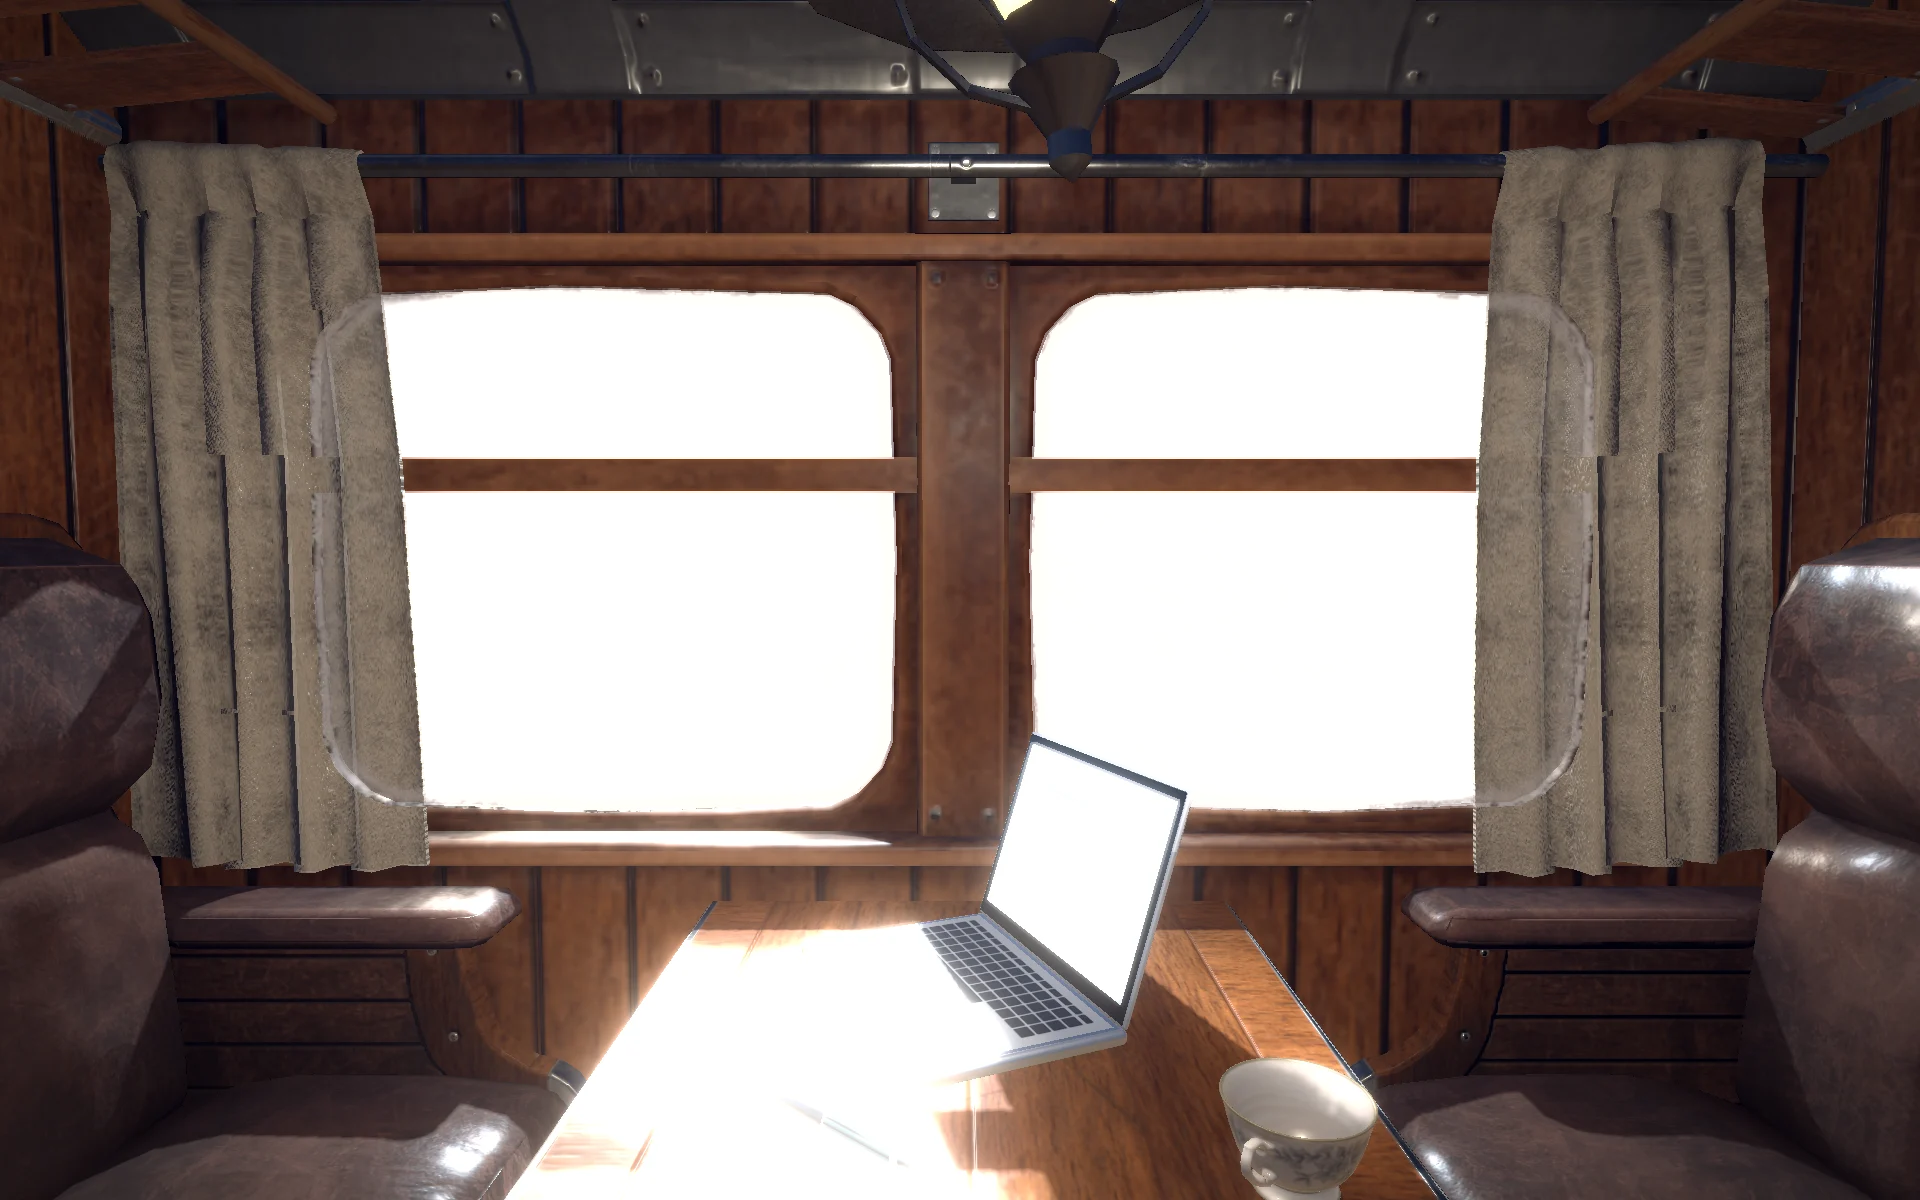
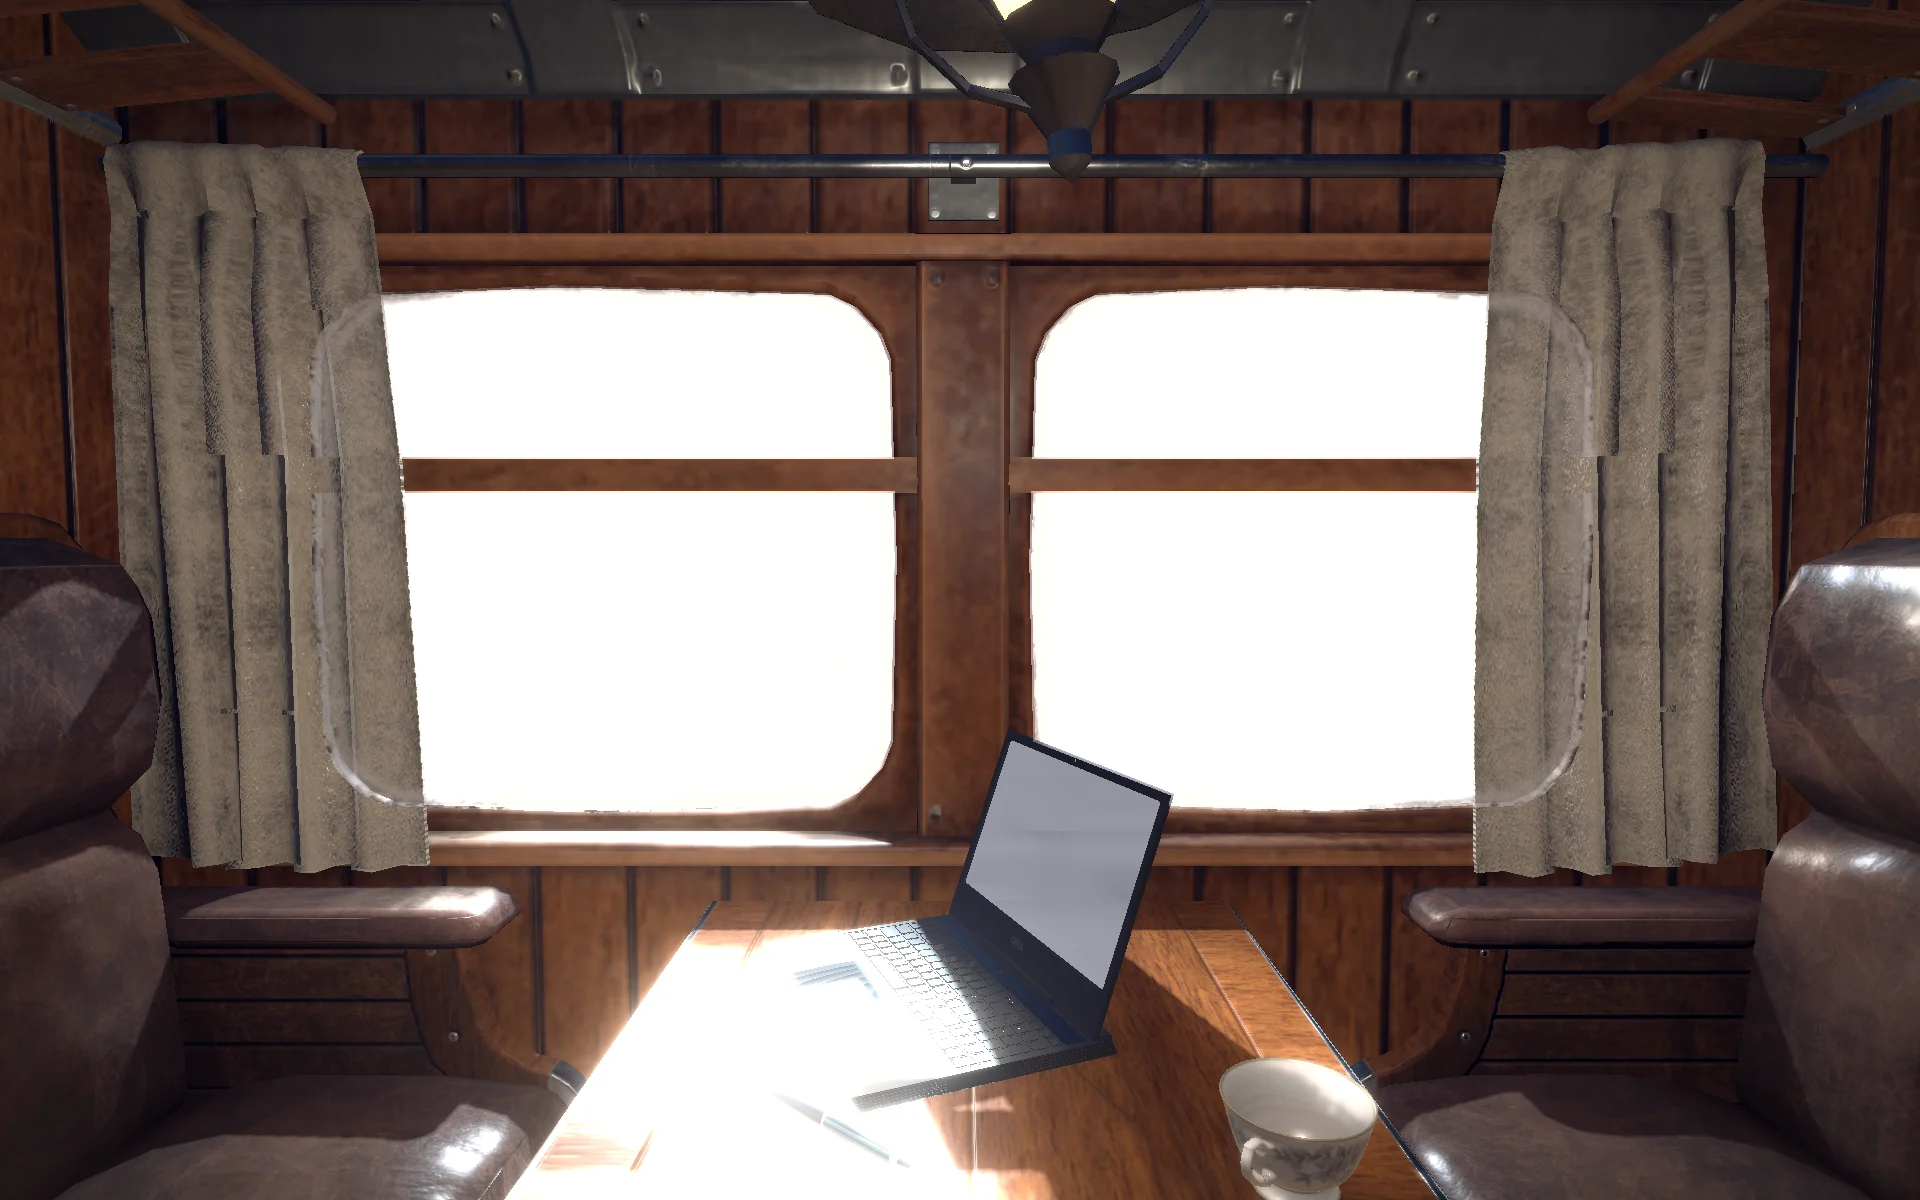
雪国线 ride: the laptop is "PC DELL G5 5590" by CONTxE (CC BY 4.0), facing the left-hand seat. Service worker: the site's pages, code and pictures are network-first now (cache only offline) — before, every deploy was hidden behind the cached copy
Claude-Session: https://claude.ai/code/session_01ScX6WKwjvGxQ2unMJchHBc

Changed region(s): [[0.4062, 0.6167, 0.6562, 0.9558]]

diff --git a/sw.js b/sw.js
@@ -2,7 +2,7 @@
    页面保持可交互；Service Worker 在后台分批下载所有页面、图片、音效和 3D 资源。 */
 "use strict";
 
-const CACHE_NAME = "paper-desk-site-v6";
+const CACHE_NAME = "paper-desk-site-v7";
 const CACHE_PREFIX = "paper-desk-site-";
 const OLD_CACHE_PREFIX = "paper-desk-carriage-";
 const FONT_ORIGIN = "https://cdn.jsdelivr.net";
@@ -197,18 +197,22 @@ self.addEventListener("fetch", event => {
       })
     );
 
-    // Use the already-prefetched page immediately; refresh it in the background.
-    event.waitUntil(refreshPromise.catch(() => {}));
-    event.respondWith(
-      cachePromise
-        .then(cache => cache.match(key))
-        .then(cached => cached || refreshPromise)
-        .catch(() => refreshPromise)
-    );
+    // Network first, so a new deploy shows on the next refresh; the cached page only when offline.
+    event.respondWith(refreshPromise.catch(() => cachePromise.then(cache => cache.match(key))));
     return;
   }
 
   if (!isCacheableRequest(request)) return;
+
+  // The site's own code and pictures change between deploys: always try the network first, fall back to the cache offline.
+  // Fonts, sounds and other heavy files that never change stay cache-first.
+  if (inScope(url) && /\.(?:html|css|js|json|webp|png|jpe?g|svg)$/i.test(url.pathname)) {
+    event.respondWith(caches.open(CACHE_NAME).then(cache => fetch(request).then(response => {
+      if (response.status === 200) cache.put(request, response.clone()).catch(() => {});
+      return response;
+    }).catch(() => cache.match(request).then(c => c || Promise.reject(new Error("offline"))))));
+    return;
+  }
 
   event.respondWith(
     fetchAndCache(request).catch(async error => {

diff --git a/NOTICE.md b/NOTICE.md
@@ -28,4 +28,4 @@ animation removed, textures converted to WebP, the mesh compressed (meshopt). It
 own Sketchfab scene settings; `assets/3d/sky_day.hdr` is decoded from Sketchfab's default environment "Gareoult" for that purpose.
 The forest outside the window (`assets/3d/snow_forest.jpg`) is cut from **snowy_forest_path_01** by Poly Haven (CC0).
 
-On the table in the ride still: a modern laptop modelled for this scene, **tea_set_01** (a cup), **office_notepads** and **stationery_supplies** (a pen), all Poly Haven (CC0).
+On the table in the ride still: **"PC DELL G5 5590" by CONTxE** (<https://sketchfab.com/3d-models/pc-dell-g5-5590-2cda50e73f69438598eabf8259e27cb7>, CC BY 4.0), and from Poly Haven (CC0) **tea_set_01** (a cup), **office_notepads** and **stationery_supplies** (a pen), all Poly Haven (CC0).
